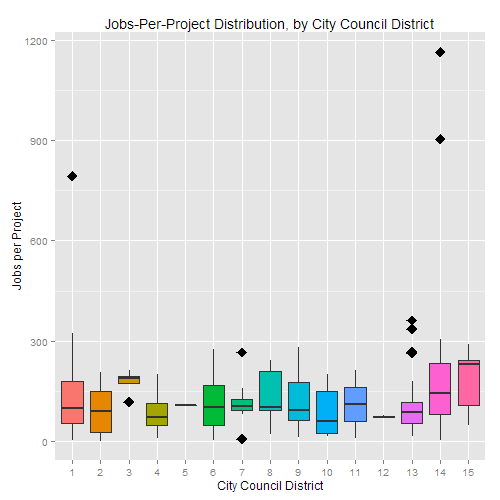
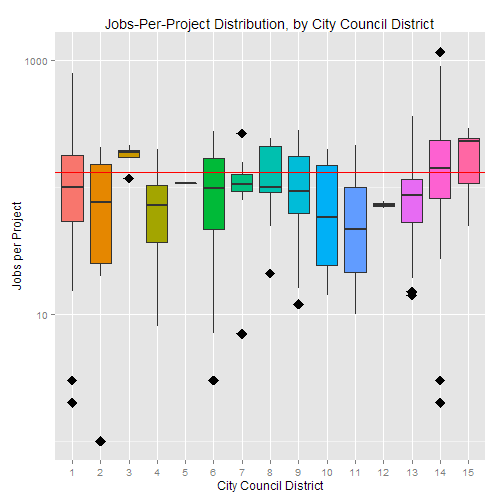
Latest update. 90% complete.

diff --git a/LA Affordable Housing Projects/README.md b/LA Affordable Housing Projects/README.md
@@ -4,8 +4,8 @@
 
 by [Jude Calvillo](http://linkd.in/1BGeytb)
 
-### Qualifier / Status (as of 11/18/15)
-I just started this project, but I hope to have it fully refined by Nov. 30, 2015. In the meantime, I invite you to review it below.
+### Qualifier / Status (as of 11/21/15)
+I only recently started this project, but I hope to have it fully refined by Nov. 30, 2015. In the meantime, I invite you to review it below.
 
 ***
 
@@ -112,7 +112,7 @@ It looks like number of housing units has had a *very strong* correlation with d
 
 Below, you'll note that funding dollar is highly predictive of number of units developed, explaining > 92% of the variance in units developed. This also implies that, between districts, developers remain roughly equal in their efficiency, and/or that the HCIDLA Trust Fund is fairly vigilent about enforcing a certain degree of efficiency (below).
 
-*This is also currently at a higher dimension (districts). I may or may not ultimately dig into the lower dimension, for the sake of overall parsimony.*  
+*This is also currently at a higher level/dimension (districts). I may or may not ultimately dig into the lower dimension, for the sake of overall parsimony.*  
 
 
 ```
@@ -120,12 +120,14 @@ Below, you'll note that funding dollar is highly predictive of number of units d
 ```
 
 ```
-## [1] "Units per dollar invested: 1.92e-05"
+## [1] "Units per dollar invested: 1.92e-05 --OR-- 1.916 units per $100,000 invested"
 ```
 
 ![plot of chunk unnamed-chunk-7](figure/unnamed-chunk-7-1.png) 
 
 ##### Q5. Over the years, how well has job creation corresponded to HCIDLA dollars funded?
+
+Over the years, number of jobs created per district has been highly correlated with HCIDLA funding total per district. If these had not been highly correlated, it would have suggested that a significant number of projects in one or more districts were employing fewer workers per dollar given. Instead, it suggests that, irrespective of differences in dollars funded over the years (Q2), between their projects, most districts are about equally productive in creating jobs from HCIDLA funds.
 
 
 ```
@@ -144,36 +146,49 @@ Below, you'll note that funding dollar is highly predictive of number of units d
 
 ##### Q6. Over the years, how predictive has HCIDLA funding dollar been of job creation? And how many jobs have been created per HCIDLA funding dollar thus far?
 
+It looks like funding dollar is indeed highly predictive of job creation, to the tune of about 3.86 jobs for every $100,000 funded. 
+
 
 ```
 ## [1] "Variance explained: 0.902"
 ```
 
 ```
-## [1] "Jobs per dollar invested: 3.68e-05"
+## [1] "Jobs per dollar invested: 3.68e-05 --OR-- 3.68 jobs per $100,000 invested"
 ```
 
 ![plot of chunk unnamed-chunk-9](figure/unnamed-chunk-9-1.png) 
 
 ##### Q9. Have any districts been significantly better -or worse- than the whole of districts for job creation from HCIDLA investments?
 
+The following districts have been statistically significantly better -or worse- than the population of districts for job creation from investments over time. The "T-Scores" you see below indicate both direction and severity, wherein the value shown is the number of standard deviations away from the mean of jobs created per project across districts.
+
 
 ```
-##    DISTRICT T_SCORE P_VALUE DEGREES     POWER
-## 3         3   3.068   0.014   8.860 1.0000000
-## 5         5  -2.891   0.004 249.000 0.9819666
-## 10       10  -2.438   0.022  26.279 1.0000000
-## 12       12  -6.444   0.000  15.507 1.0000000
-## 15       15   2.308   0.036  14.907 1.0000000
+##    DISTRICT T_SCORE P_VALUE DEGREES POWER
+## 3         3   3.068   0.014   8.860     1
+## 10       10  -2.438   0.022  26.279     1
+## 12       12  -6.444   0.000  15.507     1
+## 15       15   2.308   0.036  14.907     1
 ```
 
-![plot of chunk unnamed-chunk-10](figure/unnamed-chunk-10-1.png) 
+##### 9B. PLOT: Jobs-per-Project, By City Council District ([how to read box-plots?](http://flowingdata.com/2008/02/15/how-to-read-and-use-a-box-and-whisker-plot/))
+The boxplot below should further inform policymakers. It plots districts' per-project job distributions vs. the mean of jobs per project across the city. From this, one can discern that...
+* Since most districts' (12 out of 15) median lines fall below the city's overall mean, this means that most districts have many smaller projects and a handful of larger projects.
+* When reconciled with the job creation statistics above, projects in districts 10 and 12 really haven't been so good for job creation, and projects in districts 3 and 15 really have been overperforming for job creation, despite a negative outlier in district 3.  
+
+![plot of chunk unnamed-chunk-11](figure/unnamed-chunk-11-1.png) 
+
+*Please note: I've employed a log10 transformation to make districts' distributions easier to see, relative to the extreme ends of their overall y scale.*
 
 
 ### Footnote
-Thanks for your time and consideration. I'll be completing this as soon as possible!
+Thanks for your time and consideration. If you have any questions/concerns, or if you'd like to discuss statistics/data science for your government agency, please feel free to contact me (below).
 
 Sincerely,  
-*Jude C.*
+*Jude C.*  
+[Contact me >>](http://www.sovereignmarket.com/contact-us/email-us/)  
+[Connect on LinkedIn >>](http://linkd.in/1BGeytb)
+
 
 
